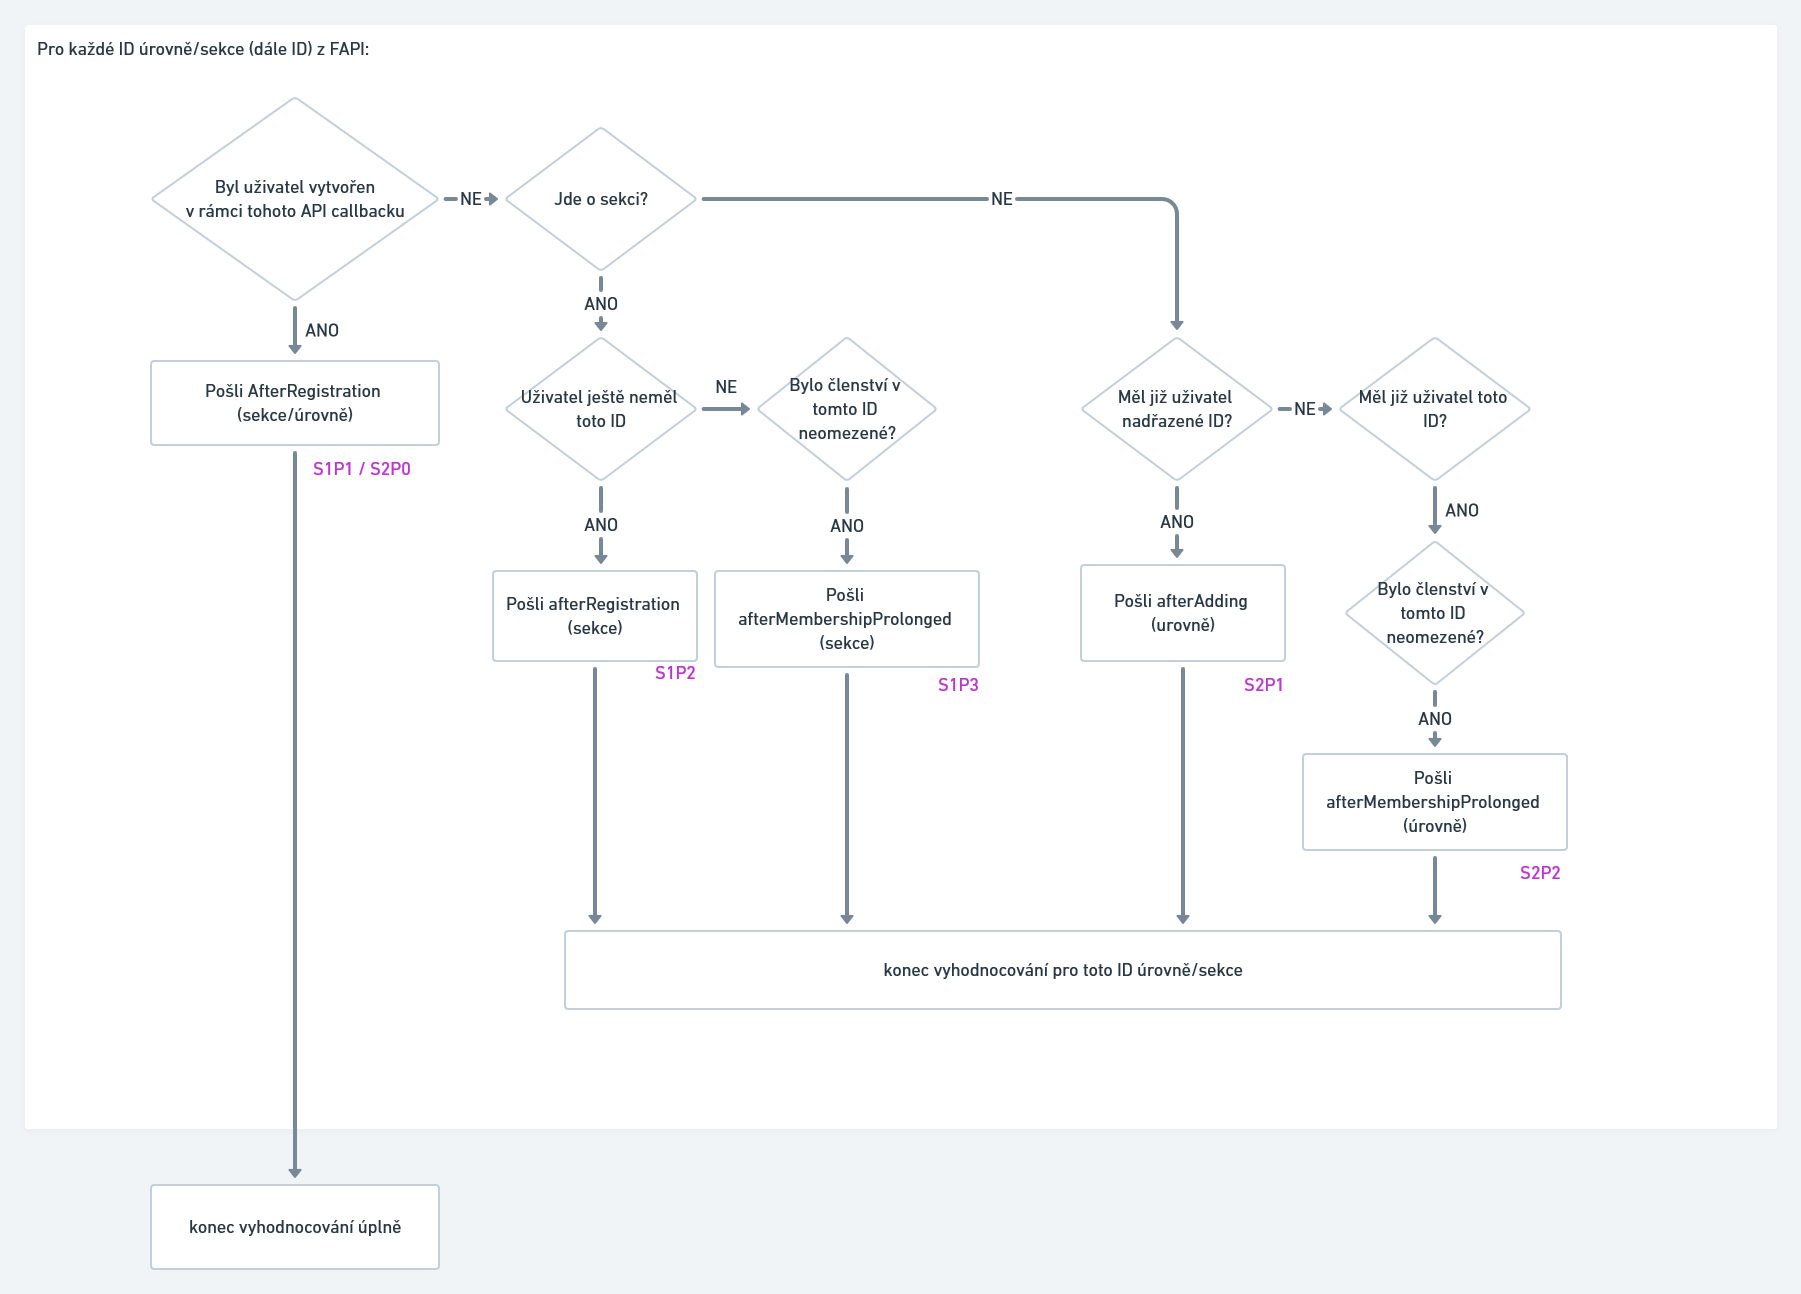
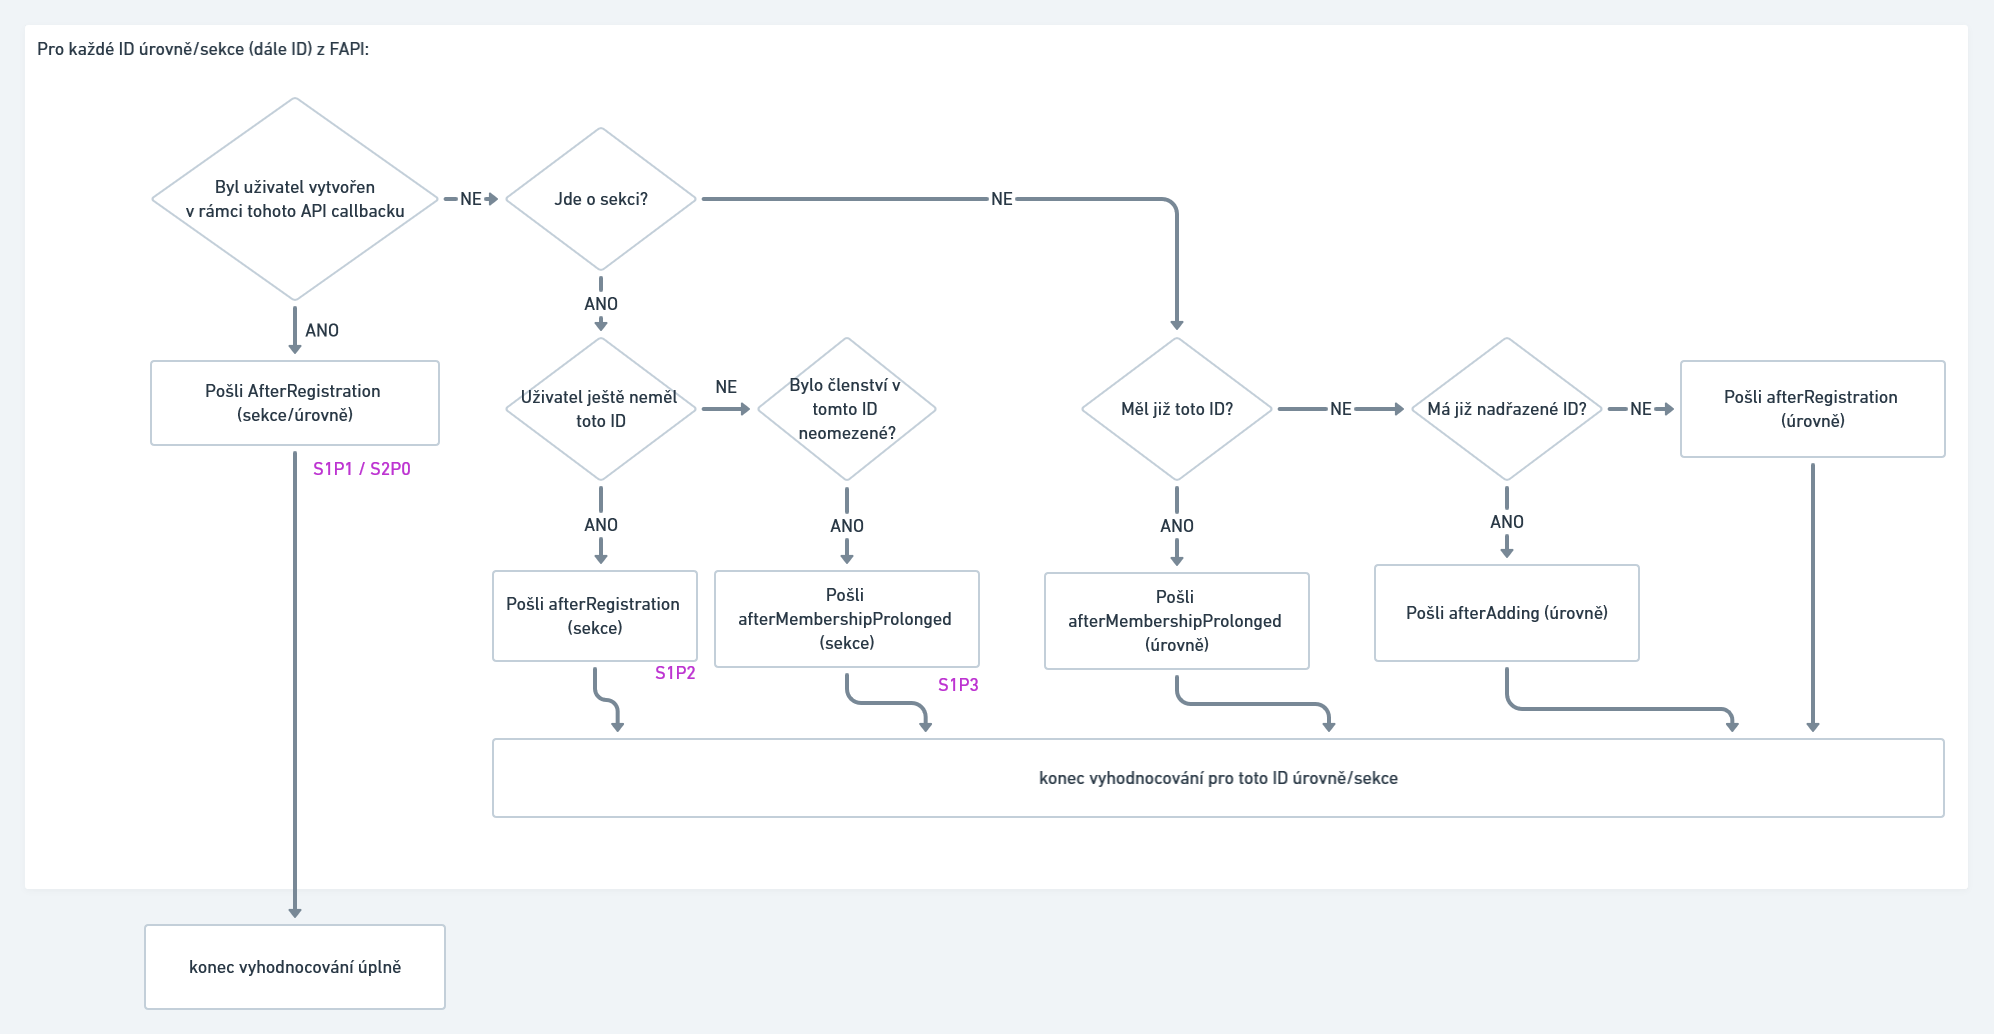
mailing rules change

diff --git a/src/FapiMemberPlugin.php b/src/FapiMemberPlugin.php
@@ -280,8 +280,8 @@ class FapiMemberPlugin {
 			}
 			$itemTemplate = ($itemTemplate === false) ? [] : $itemTemplate;
             if ( !$this->fapiApi()->isVoucherSecurityValid($voucher, $itemTemplate, $d['time'], $d['security']) ) {
-                $this->callbackError( sprintf( 'Invoice security is not valid.' ) );
-                return false;
+                //$this->callbackError( sprintf( 'Invoice security is not valid.' ) );
+                //return false;
             }
 			if ( ! isset( $voucher['status'] ) || $voucher['status'] !== 'applied' ) {
 				$this->callbackError( sprintf( 'Voucher status is not applied.' ) );
@@ -300,8 +300,8 @@ class FapiMemberPlugin {
 				return false;
 			}
 			if ( !$this->fapiApi()->isInvoiceSecurityValid($invoice, $d['time'], $d['security']) ) {
-                $this->callbackError( sprintf( 'Invoice security is not valid.' ) );
-                return false;
+                //$this->callbackError( sprintf( 'Invoice security is not valid.' ) );
+                //return false;
             }
 			if ( isset($invoice['parent']) && $invoice['parent'] !== null ) {
                 $this->callbackError( sprintf( 'Invoice parent is set and not null.' ) );
@@ -362,6 +362,7 @@ class FapiMemberPlugin {
 		if ($user) {
 		    $levels = $this->levels()->loadByIds($levelIds);
             $emailsToSend = $this->findEmailsToSend($user, $levels, $props, $wasUserCreatedNow, $this->fapiMembershipLoader(), $this->levels());
+            var_dump($emailsToSend);
             foreach ($emailsToSend as $email) {
                 $type = $email[0];
                 /** @var WP_Term $level */
@@ -424,28 +425,24 @@ class FapiMemberPlugin {
                 }
 
             } else { // Jde o sekci? NE
-                // Měl již uživatel  nadřazené ID?
-                $parent = $fapiLevels->loadById( $level->parent );
-                if ($parent) {
-                    $didUserHasParentBefore = $fapiMembershipLoader->didUserHadLevelMembershipBefore($user->ID, $parent->term_id);
-                    if ($didUserHasParentBefore) {
+                // Měl již uživatel  toto ID?
+                if ($didUserHasThisIDBefore) {
+
+                    $toSend[] = [FapiLevels::EMAIL_TYPE_AFTER_MEMBERSHIP_PROLONGED, $level];
+                    //konec vyhodnocování pro toto ID
+                    continue;
+
+                } else {
+
+
+                    $didUserHasParentIdBefore = $fapiMembershipLoader->didUserHadLevelMembershipBefore($user->ID, $level->parent);
+                    // Má již nadřazené ID?
+                    if ($didUserHasParentIdBefore) {
                         $toSend[] = [FapiLevels::EMAIL_TYPE_AFTER_ADDING, $level];
                         //konec vyhodnocování pro toto ID
                         continue;
-                    }
-                }
-
-                // Měl již uživatel toto ID?
-                if ($didUserHasThisIDBefore) {
-                    $memberships = $fapiMembershipLoader->loadForUser($user->ID);
-                    $membershipsForThisId = array_values(array_filter($memberships, function(FapiMembership $one) use ($level) {
-                        return ($one->level === $level->term_id);
-                    }));
-                    $wasMembershipUnlimited = (!empty($membershipsForThisId) && $membershipsForThisId[0]->isUnlimited);
-
-                    // Bylo členství v tomto ID neomezené?
-                    if ($wasMembershipUnlimited) {
-                        $toSend[] = [FapiLevels::EMAIL_TYPE_AFTER_MEMBERSHIP_PROLONGED, $level];
+                    } else {
+                        $toSend[] = [FapiLevels::EMAIL_TYPE_AFTER_REGISTRATION, $level];
                         //konec vyhodnocování pro toto ID
                         continue;
                     }

diff --git a/fapi-member.php b/fapi-member.php
@@ -3,7 +3,7 @@
  * Plugin Name:       FAPI Member
  * Plugin URI:        https://fapi.cz/
  * Description:       Plugin FAPI pro jednoduchou správu členských sekcí na webu.
- * Version:           1.6.4
+ * Version:           1.6.5
  * Requires at least: 5.2
  * Requires PHP:      5.6
  * Author:            FAPI Business s.r.o.
